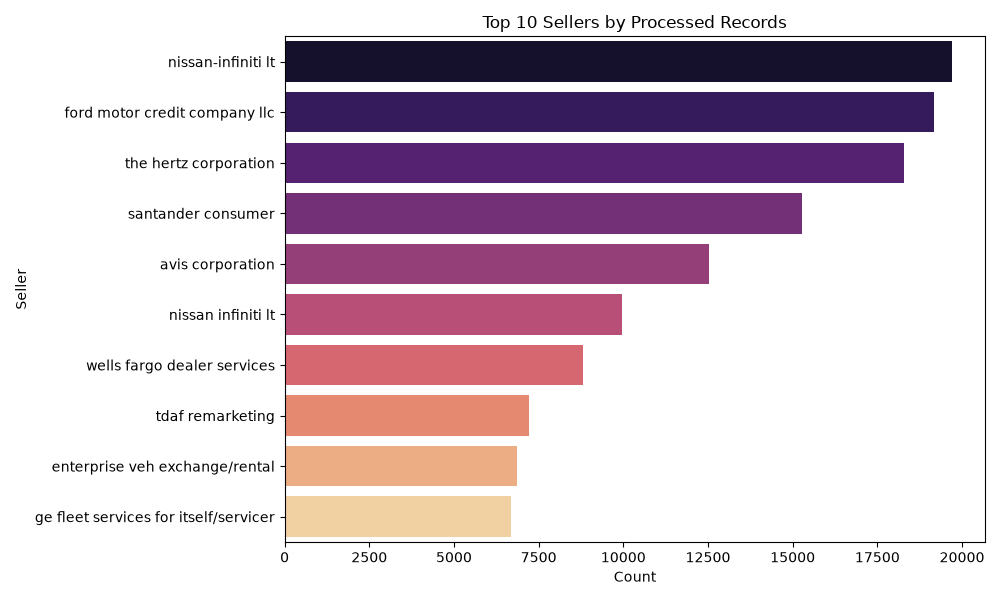
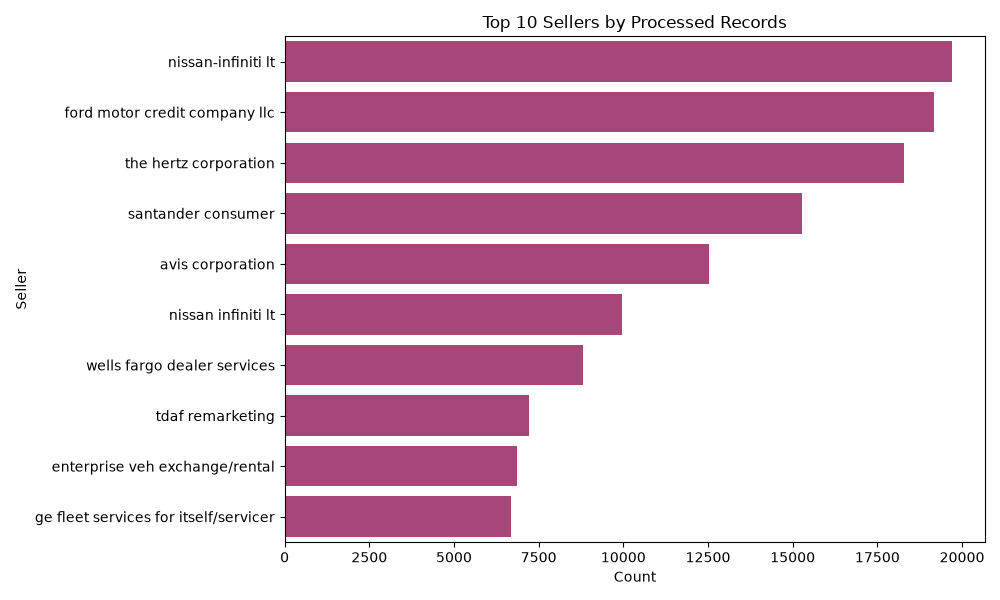
Commit current project updates

Changed region(s): [[0.279, 0.06, 0.961, 0.39], [0.279, 0.57, 0.589, 0.9]]

diff --git a/visualizations/dashboard.html b/visualizations/dashboard.html
@@ -19,7 +19,7 @@
     <ul>
       <li><strong>Processed Rows:</strong> 558837</li>
       <li><strong>Columns:</strong> year, make, model, trim, body, transmission, vin, state, condition, odometer, color, interior, seller, mmr, sellingprice, saledate</li>
-      <li><strong>Missing Values:</strong> 123376</li>
+      <li><strong>Missing Values:</strong> 123397</li>
     </ul>
   </section>
   <section class="chart">
@@ -37,6 +37,18 @@
   <section class="chart">
     <h2>Top Sellers</h2>
     <img src="top_sellers.png" alt="top_sellers">
+  </section>
+  <section class="chart">
+    <h2>Top 10 Dealers By Sales</h2>
+    <img src="top_10_dealers_by_sales.png" alt="top_10_dealers_by_sales">
+  </section>
+  <section class="chart">
+    <h2>Car Prices By State</h2>
+    <img src="car_prices_by_state.png" alt="car_prices_by_state">
+  </section>
+  <section class="chart">
+    <h2>Sales Condition Distribution</h2>
+    <img src="sales_condition_distribution.png" alt="sales_condition_distribution">
   </section>
 </body>
 </html>

diff --git a/src/dashboard.py b/src/dashboard.py
@@ -3,11 +3,20 @@
 import logging
 from pathlib import Path
 
+import re
 import matplotlib.pyplot as plt
 import pandas as pd
 import seaborn as sns
+from dateutil import parser as date_parser
 
 logger = logging.getLogger(__name__)
+
+
+def _get_color_from_palette(palette):
+    try:
+        return sns.color_palette(palette, 1)[0]
+    except Exception:
+        return sns.color_palette("deep", 1)[0]
 
 
 def _save_count_plot(df, column, output_path, title, palette="viridis"):
@@ -15,8 +24,9 @@ def _save_count_plot(df, column, output_path, title, palette="viridis"):
     if counts.empty:
         return None
 
+    color = _get_color_from_palette(palette)
     plt.figure(figsize=(10, 6))
-    sns.barplot(x=counts.values, y=counts.index, palette=palette)
+    sns.barplot(x=counts.values, y=counts.index, color=color)
     plt.title(title)
     plt.xlabel("Count")
     plt.ylabel(column.replace("_", " ").title())
@@ -48,6 +58,67 @@ def _save_scatter_plot(df, x, y, output_path, title, hue=None, sample=1000):
             bbox_to_anchor=(1.05, 1),
             loc="upper left",
         )
+    plt.tight_layout()
+    plt.savefig(output_path)
+    plt.close()
+    logger.info(f"Saved dashboard chart: {output_path}")
+    return output_path
+
+
+def _save_average_price_by_state(df, output_path, title):
+    if df.empty or "state" not in df.columns or "sellingprice" not in df.columns:
+        return None
+
+    avg_prices = df.groupby("state")["sellingprice"].mean().sort_values(ascending=False)
+    plt.figure(figsize=(12, 7))
+    color = _get_color_from_palette("coolwarm")
+    sns.barplot(x=avg_prices.values, y=avg_prices.index, color=color)
+    plt.title(title)
+    plt.xlabel("Average Selling Price")
+    plt.ylabel("State")
+    plt.tight_layout()
+    plt.savefig(output_path)
+    plt.close()
+    logger.info(f"Saved dashboard chart: {output_path}")
+    return output_path
+
+
+def _save_price_distribution_by_condition(df, output_path, title):
+    if df.empty or "condition" not in df.columns:
+        return None
+
+    plt.figure(figsize=(12, 7))
+    sns.histplot(
+        df,
+        x="sellingprice",
+        hue="condition",
+        palette="viridis",
+        multiple="stack",
+        bins=30,
+    )
+    plt.title(title)
+    plt.xlabel("Selling Price")
+    plt.ylabel("Count")
+    plt.tight_layout()
+    plt.savefig(output_path)
+    plt.close()
+    logger.info(f"Saved dashboard chart: {output_path}")
+    return output_path
+
+
+def _save_top_dealers_by_total_sales(df, output_path, title):
+    if df.empty or "seller" not in df.columns or "sellingprice" not in df.columns:
+        return None
+
+    dealer_sales = (
+        df.groupby("seller")["sellingprice"].sum().sort_values(ascending=False).head(10)
+    )
+    plt.figure(figsize=(12, 8))
+    color = _get_color_from_palette("magma")
+    sns.barplot(x=dealer_sales.values, y=dealer_sales.index, color=color)
+    plt.title(title)
+    plt.xlabel("Total Sales Value")
+    plt.ylabel("Seller")
     plt.tight_layout()
     plt.savefig(output_path)
     plt.close()
@@ -124,29 +195,39 @@ def generate_dashboard(processed_dir: Path, output_dir: Path = Path("visualizati
         raise FileNotFoundError(f"No processed CSV files found in: {processed_dir}")
 
     df = None
+
+    def _normalize_date_value(value):
+        if pd.isna(value):
+            return pd.NaT
+        if isinstance(value, str):
+            cleaned = value.strip()
+            cleaned = re.sub(r"\s*\(.*\)$", "", cleaned)
+            try:
+                return pd.to_datetime(
+                    cleaned, format="%a %b %d %Y %H:%M:%S GMT%z", errors="raise"
+                )
+            except (ValueError, OverflowError):
+                try:
+                    return date_parser.parse(cleaned)
+                except (ValueError, OverflowError):
+                    return pd.NaT
+        return value
+
+    def _read_with_date_parsing(path):
+        sample_cols = pd.read_csv(path, nrows=0, low_memory=False).columns.tolist()
+        date_cols = [col for col in ["saledate", "sale_date"] if col in sample_cols]
+        df_local = pd.read_csv(path, low_memory=False)
+        for col in date_cols:
+            df_local[col] = df_local[col].apply(_normalize_date_value)
+        return df_local
+
     for csv_file in csv_files:
         if csv_file.name == "car_prices.csv":
-            df = pd.read_csv(
-                csv_file,
-                parse_dates=[
-                    col
-                    for col in ["saledate", "sale_date"]
-                    if col in pd.read_csv(csv_file, nrows=0).columns
-                ],
-                low_memory=False,
-            )
+            df = _read_with_date_parsing(csv_file)
             break
 
     if df is None:
-        df = pd.read_csv(
-            csv_files[0],
-            parse_dates=[
-                col
-                for col in ["saledate", "sale_date"]
-                if col in pd.read_csv(csv_files[0], nrows=0).columns
-            ],
-            low_memory=False,
-        )
+        df = _read_with_date_parsing(csv_files[0])
 
     summary = {
         "processed_rows": int(len(df)),
@@ -186,7 +267,8 @@ def generate_dashboard(processed_dir: Path, output_dir: Path = Path("visualizati
         seller_counts = df["seller"].value_counts().head(10)
         seller_plot = output_dir / "top_sellers.png"
         plt.figure(figsize=(10, 6))
-        sns.barplot(x=seller_counts.values, y=seller_counts.index, palette="magma")
+        color = _get_color_from_palette("magma")
+        sns.barplot(x=seller_counts.values, y=seller_counts.index, color=color)
         plt.title("Top 10 Sellers by Processed Records")
         plt.xlabel("Count")
         plt.ylabel("Seller")
@@ -195,6 +277,26 @@ def generate_dashboard(processed_dir: Path, output_dir: Path = Path("visualizati
         plt.close()
         logger.info(f"Saved dashboard chart: {seller_plot}")
         charts.append(seller_plot)
+
+        total_sales_plot = output_dir / "top_10_dealers_by_sales.png"
+        total_sales_chart = _save_top_dealers_by_total_sales(
+            df, total_sales_plot, "Top 10 Dealers by Total Sales"
+        )
+        if total_sales_chart is not None:
+            charts.append(total_sales_chart)
+
+    charts.append(
+        _save_average_price_by_state(
+            df, output_dir / "car_prices_by_state.png", "Average Selling Price by State"
+        )
+    )
+    charts.append(
+        _save_price_distribution_by_condition(
+            df,
+            output_dir / "sales_condition_distribution.png",
+            "Selling Price Distribution by Condition",
+        )
+    )
 
     dashboard_path = _build_dashboard_html(output_dir, charts, summary)
     return {

diff --git a/src/cloud/aws_etl.py b/src/cloud/aws_etl.py
@@ -17,7 +17,9 @@ from src.transform.transform_data import TransformError, transform
 from src.validation import ValidationError, parse_required_columns, validate_df
 
 logger = logging.getLogger(__name__)
-logging.basicConfig(level=logging.INFO, format="%(asctime)s %(levelname)s:%(name)s:%(message)s")
+logging.basicConfig(
+    level=logging.INFO, format="%(asctime)s %(levelname)s:%(name)s:%(message)s"
+)
 
 
 def _get_env_bool(name: str, default: str = "false") -> bool:
@@ -74,13 +76,17 @@ def run_aws_etl() -> bool:
             df = extract_csv(csv_file)
             required_columns = parse_required_columns(os.getenv("REQUIRED_COLUMNS"))
             validate_df(df, required_columns=required_columns)
-            df_transformed = transform(df, normalize_cols=True, handle_missing="drop_all")
+            df_transformed = transform(
+                df, normalize_cols=True, handle_missing="drop_all"
+            )
 
             output_path = processed_dir / f"{csv_file.stem}.parquet"
             df_transformed.to_parquet(output_path, index=False, compression="snappy")
             logger.info(f"Wrote processed Parquet to {output_path}")
 
-            upload_file(csv_file, bucket, f"{raw_prefix}/{csv_file.name}", region_name=region)
+            upload_file(
+                csv_file, bucket, f"{raw_prefix}/{csv_file.name}", region_name=region
+            )
             upload_dataframe_as_parquet(
                 df_transformed,
                 bucket,
@@ -90,7 +96,9 @@ def run_aws_etl() -> bool:
 
             if redshift_enabled:
                 if not iam_role_arn:
-                    raise ValueError("REDSHIFT_IAM_ROLE_ARN must be set to COPY into Redshift")
+                    raise ValueError(
+                        "REDSHIFT_IAM_ROLE_ARN must be set to COPY into Redshift"
+                    )
                 load_dataframe_to_redshift(
                     df_transformed,
                     csv_file.stem,
@@ -105,7 +113,12 @@ def run_aws_etl() -> bool:
             logger.error(f"Failed to process {csv_file.name}: {exc}")
             continue
 
-    if upload_directory(raw_dir, bucket, raw_prefix, pattern="*.csv", region_name=region) == 0:
+    if (
+        upload_directory(
+            raw_dir, bucket, raw_prefix, pattern="*.csv", region_name=region
+        )
+        == 0
+    ):
         logger.warning("No raw files uploaded to S3")
 
     return True

diff --git a/tests/test_perf_copy.py b/tests/test_perf_copy.py
@@ -27,14 +27,17 @@ def test_copy_loader_perf():
 
     # prefer testcontainers when available for reproducible ephemeral Postgres
     if HAS_TESTCONTAINERS:
+        from urllib.parse import urlparse
+
         with PostgresContainer("postgres:15") as pg:
             db_url = pg.get_connection_url()
             db = DatabaseManager()
-            db.user = pg.USER
-            db.password = pg.PASSWORD
-            db.host = pg.get_container_host_ip()
-            db.port = pg.get_exposed_port(pg.port_to_expose)
-            db.database = pg.DB
+            parsed = urlparse(db_url)
+            db.user = parsed.username
+            db.password = parsed.password
+            db.host = parsed.hostname
+            db.port = parsed.port
+            db.database = parsed.path.lstrip("/")
             db.engine = None
             try:
                 db.connect()

diff --git a/src/cloud/aws_redshift.py b/src/cloud/aws_redshift.py
@@ -60,9 +60,7 @@ def create_table_if_not_exists(
     diststyle: str = "AUTO",
 ) -> None:
     """Create a Redshift table if it does not exist."""
-    create_sql = sql.SQL(
-        "CREATE TABLE IF NOT EXISTS {}.{} ({} ) DISTSTYLE {}"
-    ).format(
+    create_sql = sql.SQL("CREATE TABLE IF NOT EXISTS {}.{} ({} ) DISTSTYLE {}").format(
         sql.Identifier(schema),
         sql.Identifier(table_name),
         sql.SQL(dataframe_to_redshift_schema(df)),

diff --git a/src/config.py b/src/config.py
@@ -59,7 +59,8 @@ class PipelineConfig:
         default_factory=lambda: os.getenv("KAGGLE_DATASET")
     )
     kaggle_force: bool = field(
-        default_factory=lambda: os.getenv("KAGGLE_FORCE_DOWNLOAD", "false").lower() == "true"
+        default_factory=lambda: os.getenv("KAGGLE_FORCE_DOWNLOAD", "false").lower()
+        == "true"
     )
     kaggle_file_pattern: str = field(
         default_factory=lambda: os.getenv("KAGGLE_FILE_PATTERN", "*.csv")

diff --git a/src/pipeline.py b/src/pipeline.py
@@ -325,7 +325,9 @@ def run():
                         logger.error(f"Error processing {f}: {e}")
         else:
             for csv_file in batch:
-                process_file(csv_file, stats, engine, max_retries=config.pipeline.max_retries)
+                process_file(
+                    csv_file, stats, engine, max_retries=config.pipeline.max_retries
+                )
 
     # Log final statistics
     stats.log_stats()
